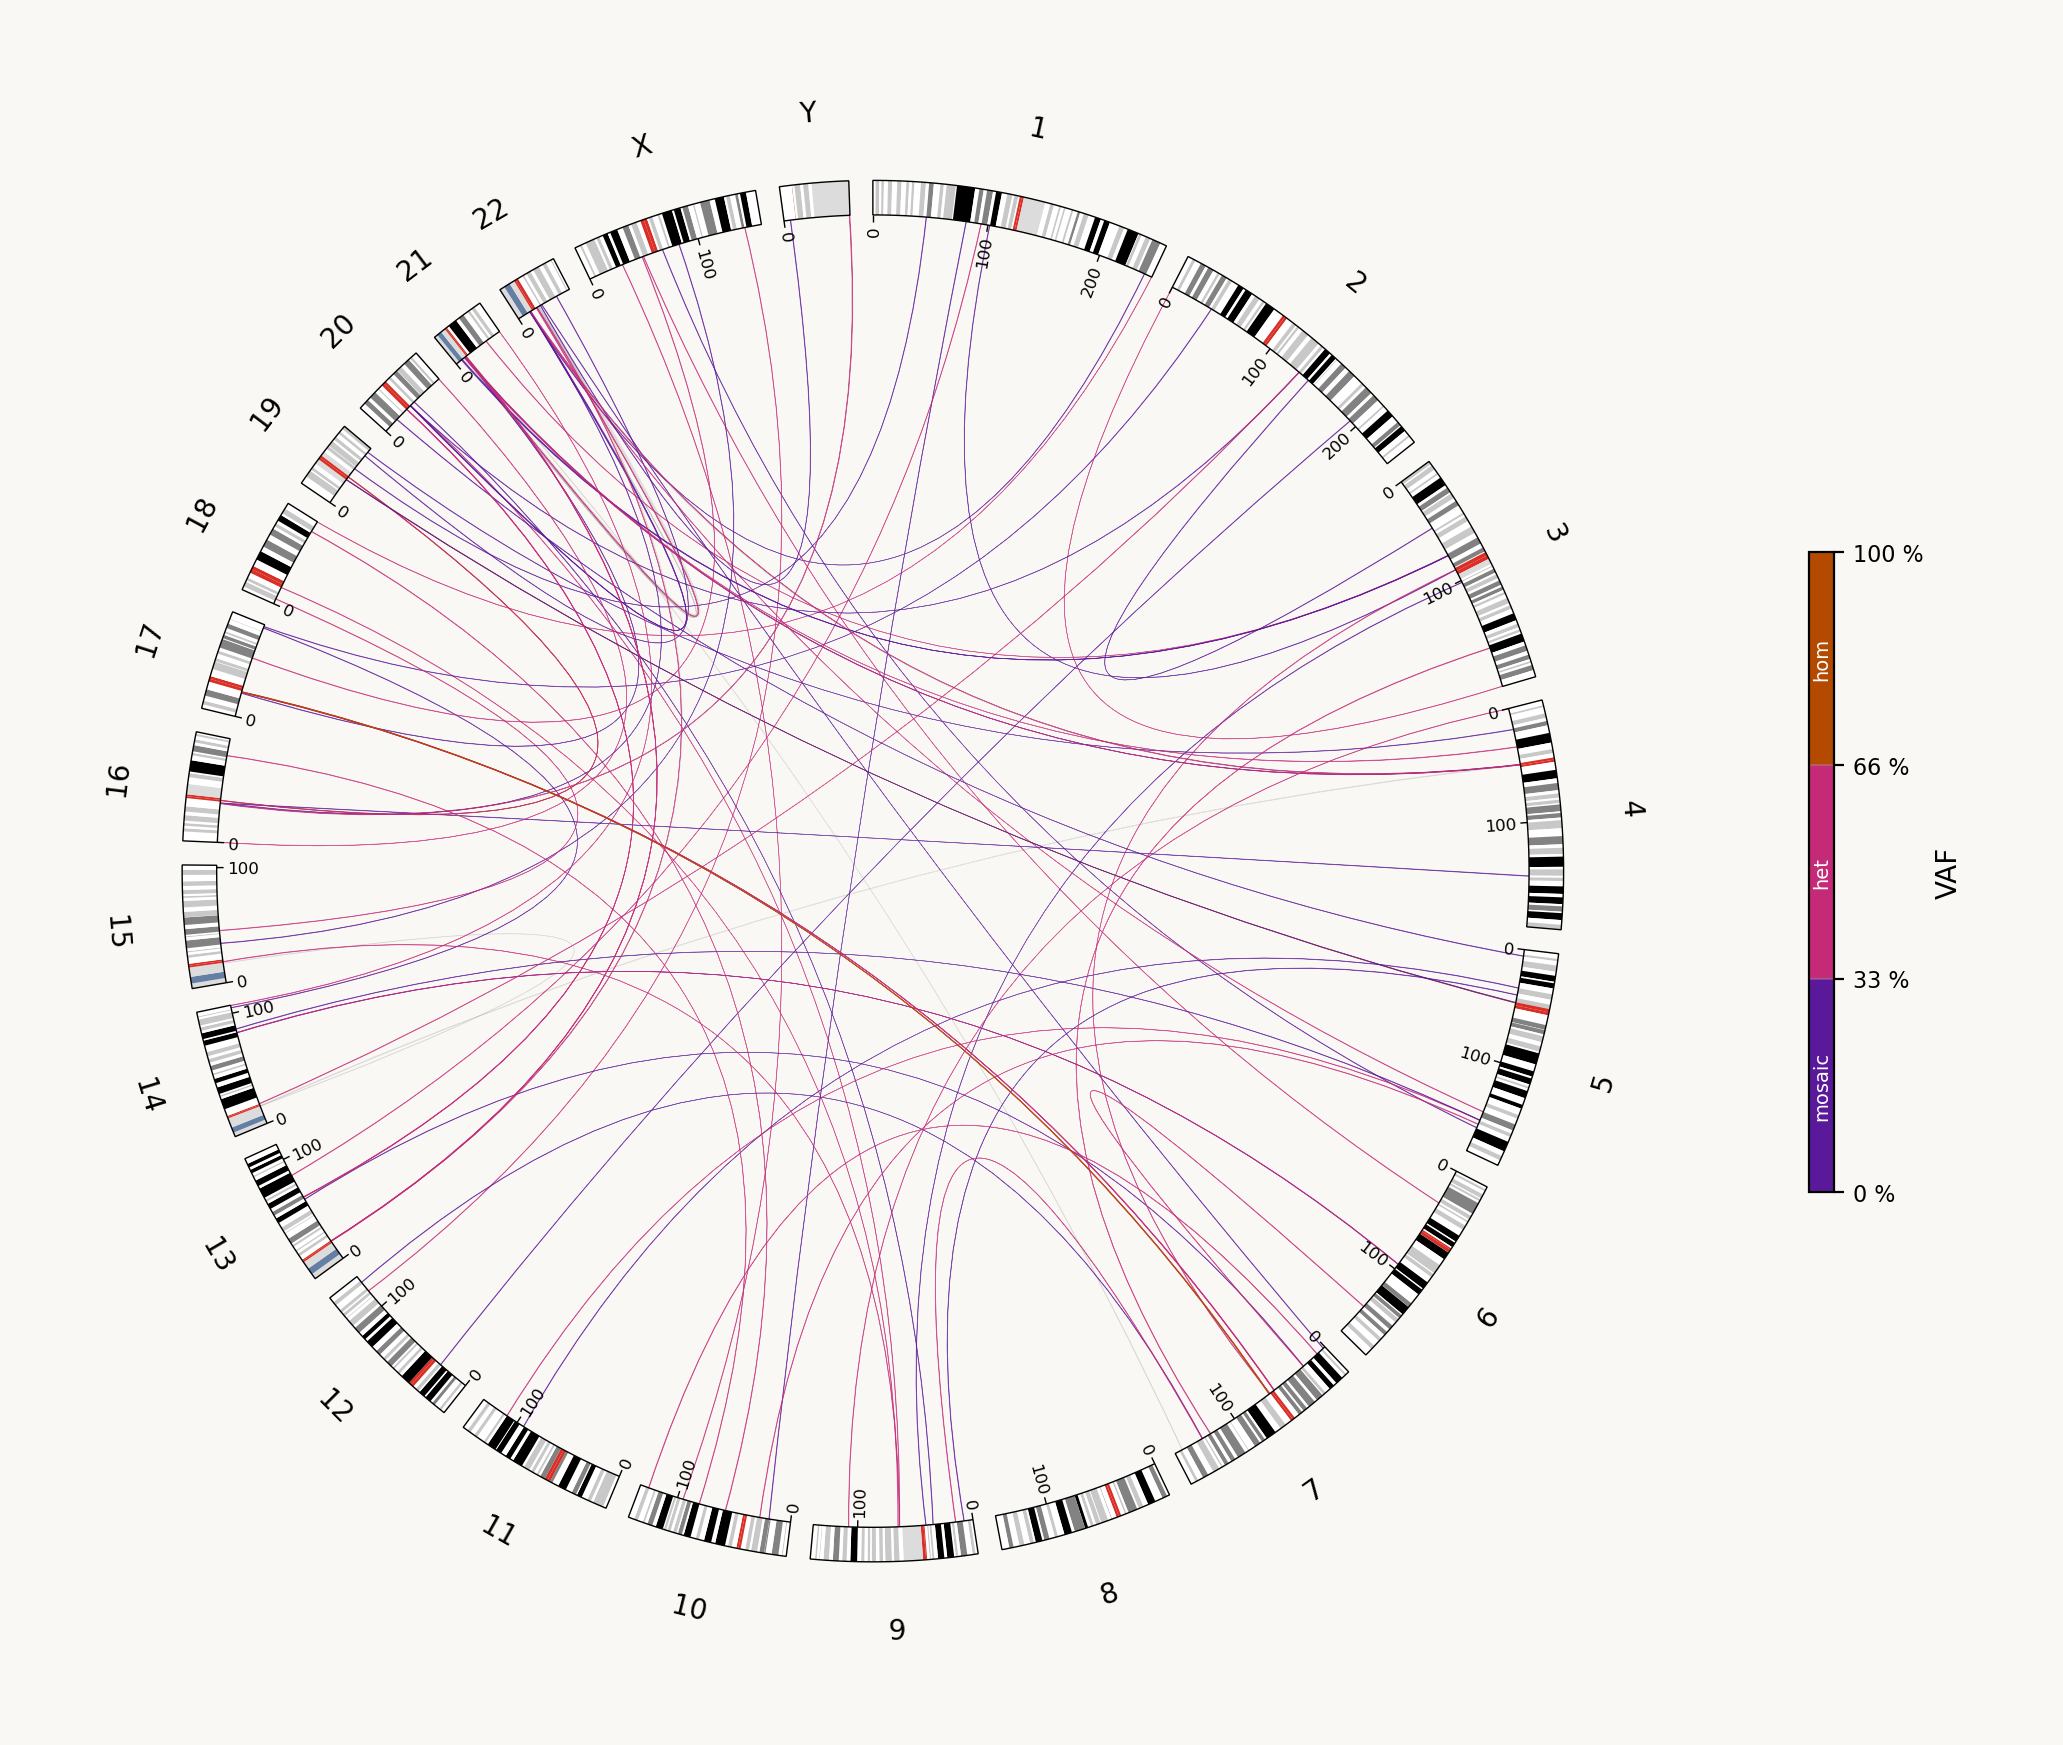
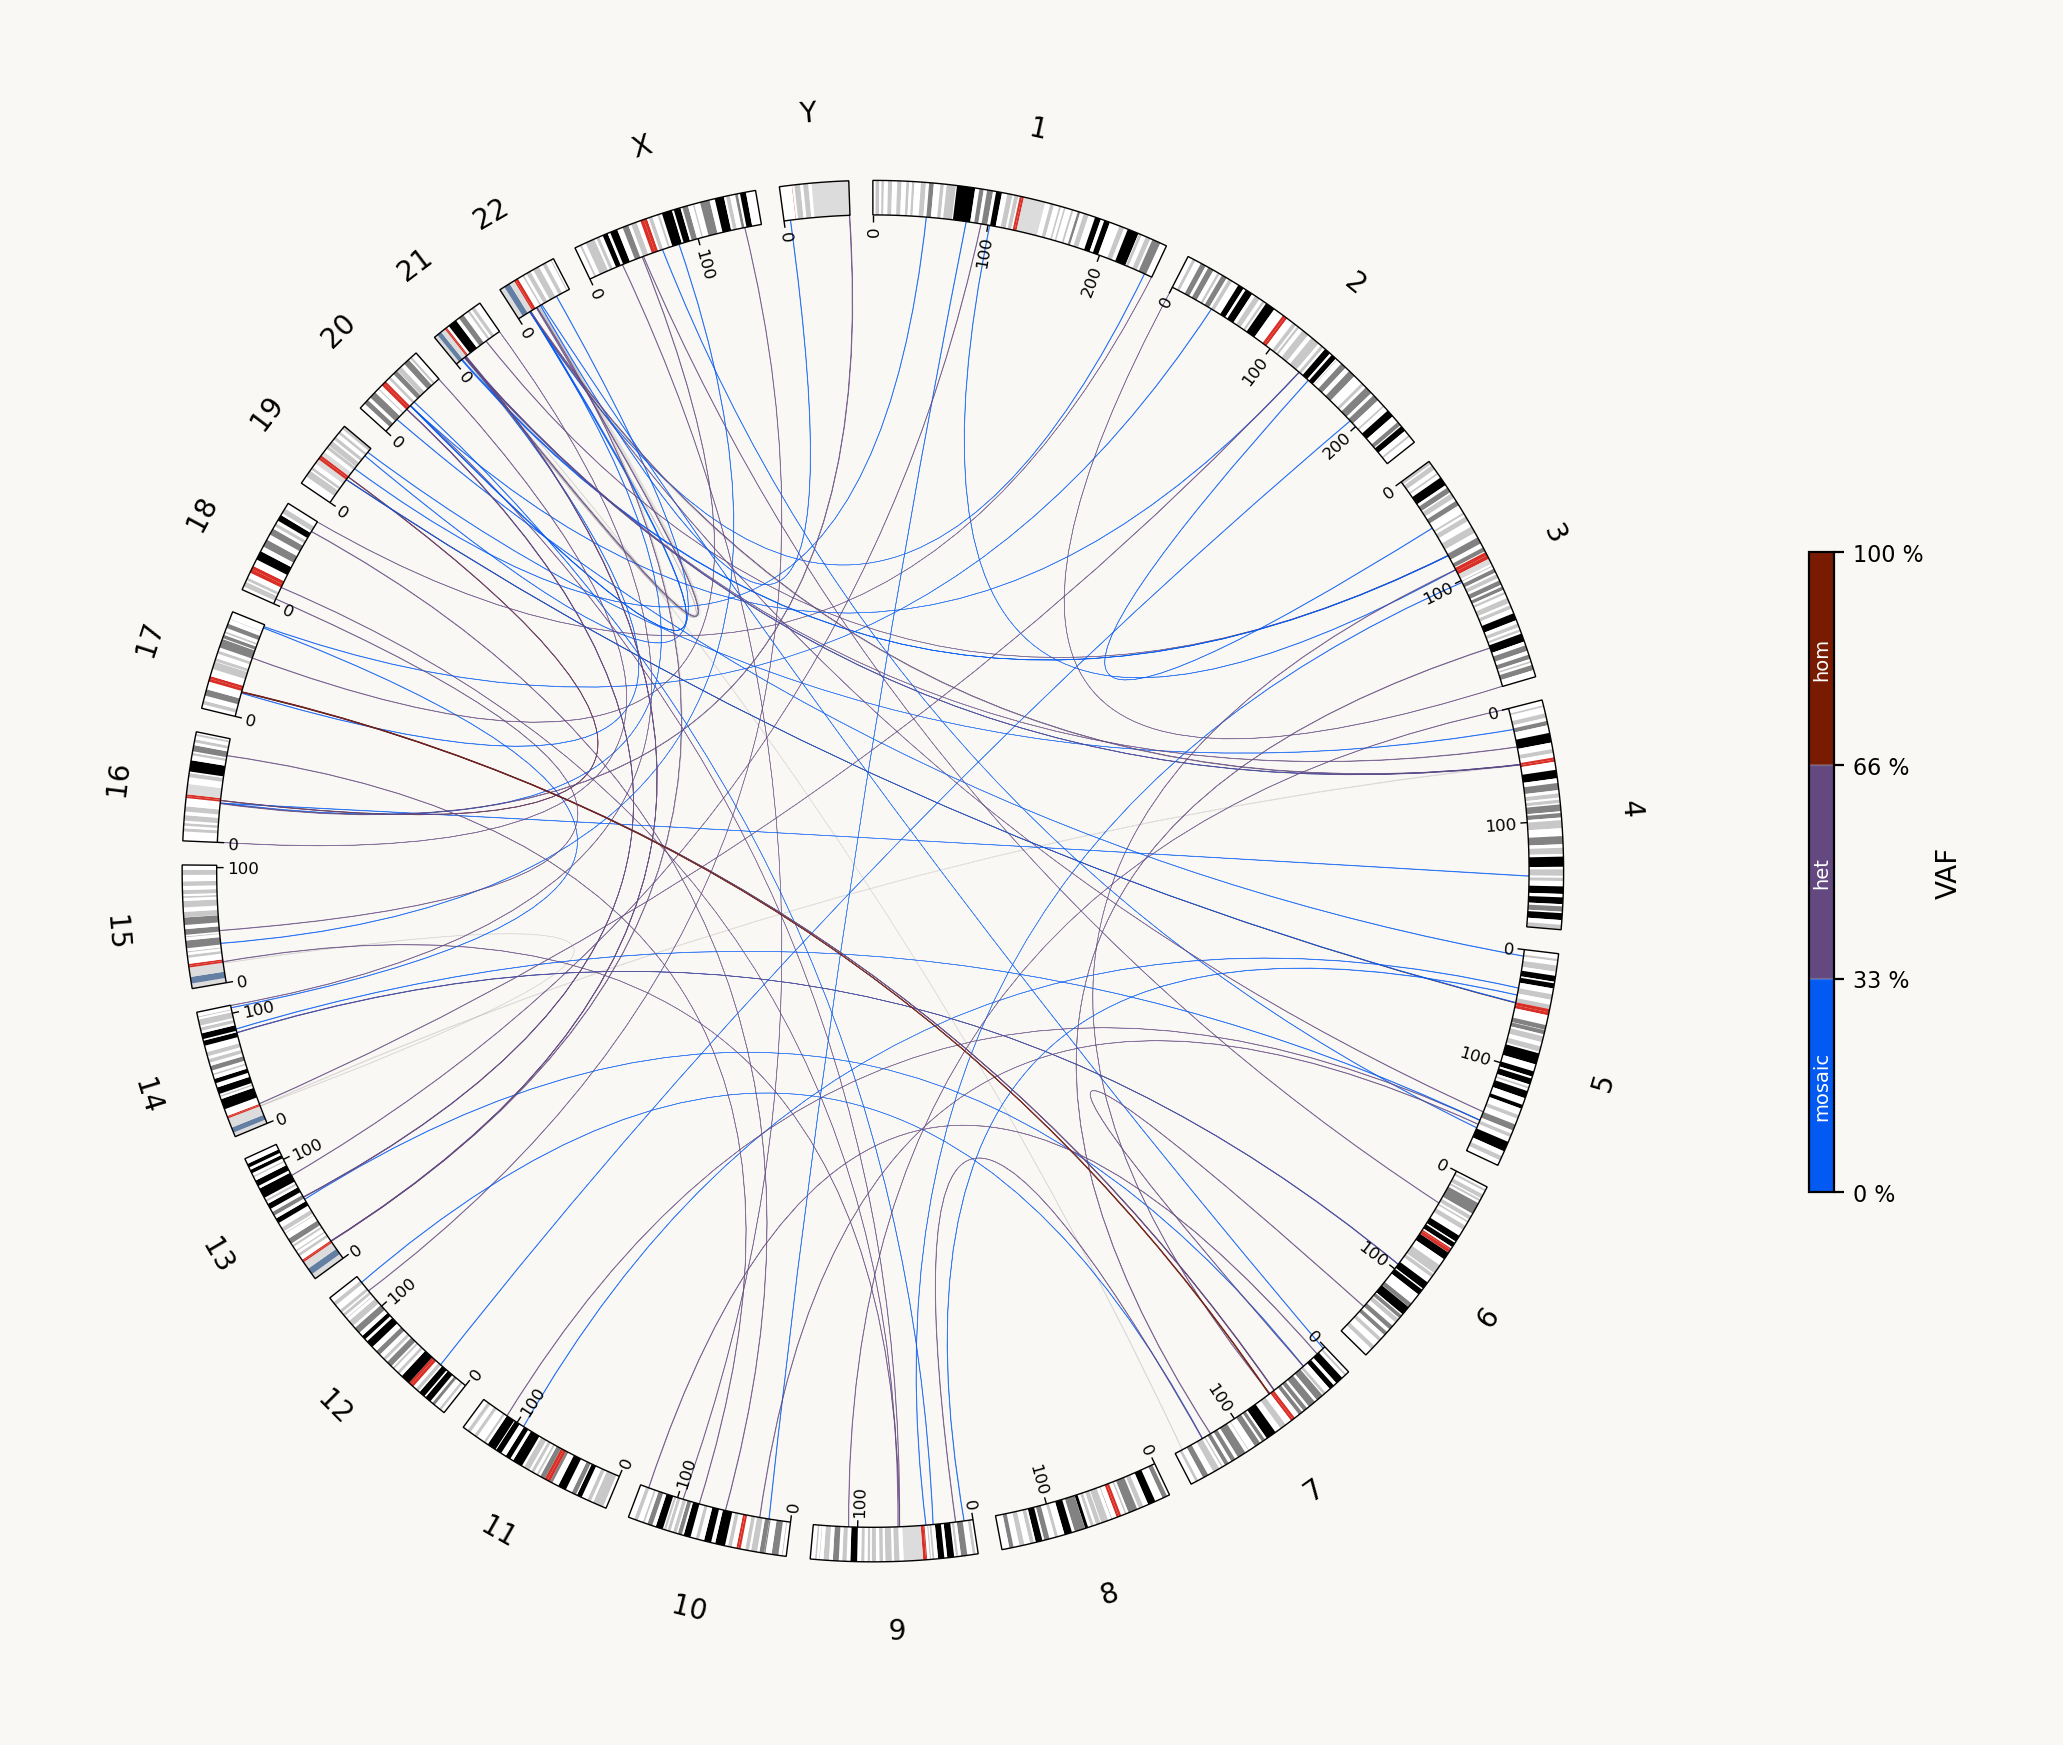
v0.5.1: colour-blind-safe VAF classes
The v0.5.0 palette put het and hom at nearly identical lightness, so they
differed almost only in hue and merged under tritanopia -- dE 11.3 as
drawn, below the level at which two 1 px arcs can be told apart.

VAF_CLASS_COLORS is now #035AF3 mosaic / #634980 het / #781B00 hom,
selected under simulated colour-vision deficiency (Machado et al. 2009)
and evaluated on the colours AS DRAWN. That last part matters: arcs
render at alpha 0.70 over the page, which costs about a third of the
nominal contrast, so a palette judged on raw hex looks fine in a swatch
and washes out on the plot. An earlier candidate scored well raw and
measured 2.5:1 as composited.

Worst case across normal / protan / deutan / tritan vision:

  class-vs-class  dE 11.3 -> 37.2
  vs noise grey   dE 30.1 -> 35.0

Every class still clears 3:1 against the page as composited, and
lightness is now monotone with VAF so the ordering survives even total
loss of hue discrimination.

tests/test_vaf_colors.py pins all four properties and carries the CVD
simulation, so a future recolour cannot silently regress this. The
contrast assertions there now also measure the composited colour rather
than the raw hex.

Example figures in docs/ regenerated from the same MH001 hg38 Sniffles2
run (94 BNDs, unchanged) so the published screenshots match the code.

Tests: 458 passing. ruff clean.

diff --git a/tests/test_vaf_colors.py b/tests/test_vaf_colors.py
@@ -9,6 +9,7 @@ and the colorbar they are read against share one norm.
 
 from __future__ import annotations
 
+import numpy as np
 import pytest
 from matplotlib.colors import to_rgb
 
@@ -198,3 +199,106 @@ def test_overcrowded_labels_are_drawn_and_counted_not_dropped():
 
 def test_no_labels_is_not_an_error():
     assert mm._draw_vaf_labels(_FakeCircos(), [], {"chr1": 1000}) == (0, 0)
+
+
+# --- colour-vision deficiency ---------------------------------------------
+#
+# The VAF classes were picked under simulated CVD, not by eye. Two things
+# had gone wrong with an eye-picked palette and neither was visible to
+# normal vision: `het` and `hom` sat at the same lightness so they merged
+# under tritanopia, and `het` desaturated to near-grey under deuteranopia
+# -- the same grey molamola uses for noise-flagged BNDs, so for ~6 % of
+# men real het breakends read as artefacts. These tests pin both.
+
+# Machado et al. (2009) severity-1.0 matrices, linear sRGB.
+_CVD_MATRICES = {
+    "protan": ((0.152286, 1.052583, -0.204868),
+               (0.114503, 0.786281, 0.099216),
+               (-0.003882, -0.048116, 1.051998)),
+    "deutan": ((0.367322, 0.860646, -0.227968),
+               (0.280085, 0.672501, 0.047413),
+               (-0.011820, 0.042940, 0.968881)),
+    "tritan": ((1.255528, -0.076749, -0.178779),
+               (-0.078411, 0.930809, 0.147602),
+               (0.004733, 0.691367, 0.303900)),
+}
+
+
+def _to_linear(c):
+    return np.where(c <= 0.04045, c / 12.92, ((c + 0.055) / 1.055) ** 2.4)
+
+
+def _simulate(color, kind):
+    """Return `color` as seen with the given dichromacy."""
+    rgb = _to_linear(np.array(to_rgb(color)))
+    if kind != "normal":
+        rgb = np.array(_CVD_MATRICES[kind]) @ rgb
+    return np.clip(rgb, 0.0, 1.0)
+
+
+def _lab(linear_rgb):
+    m = np.array([[0.4124, 0.3576, 0.1805],
+                  [0.2126, 0.7152, 0.0722],
+                  [0.0193, 0.1192, 0.9505]])
+    xyz = m @ linear_rgb
+    wp = np.array([0.95047, 1.0, 1.08883])
+
+    def f(t):
+        return t ** (1 / 3) if t > 0.008856 else 7.787 * t + 16 / 116
+
+    fx, fy, fz = (f(v) for v in xyz / wp)
+    return np.array([116 * fy - 16, 500 * (fx - fy), 200 * (fy - fz)])
+
+
+def _blend(color, alpha):
+    """Colour as actually drawn: alpha-composited over the page.
+
+    Arcs render at alpha 0.70 and noise-flagged arcs at 0.18, which
+    lifts both toward the background. Judging the raw hex values
+    overstates how distinct they are on the plot.
+    """
+    fg, bg = np.array(to_rgb(color)), np.array(to_rgb(mm.PAPER_BG))
+    return tuple(alpha * fg + (1 - alpha) * bg)
+
+
+ARC_ALPHA = 0.70
+NOISE_ALPHA = 0.18
+
+
+def _delta_e(a, b, kind):
+    return float(np.linalg.norm(_lab(_simulate(a, kind)) - _lab(_simulate(b, kind))))
+
+
+CVD_KINDS = ["normal", "protan", "deutan", "tritan"]
+
+
+@pytest.mark.parametrize("kind", CVD_KINDS)
+def test_classes_stay_distinct_under_colour_blindness(kind):
+    drawn = [_blend(c, ARC_ALPHA) for c in mm.VAF_CLASS_COLORS]
+    worst = min(_delta_e(drawn[i], drawn[j], kind)
+                for i in range(len(drawn)) for j in range(i + 1, len(drawn)))
+    assert worst >= 30, f"{kind}: closest VAF classes are only dE {worst:.1f} apart"
+
+
+@pytest.mark.parametrize("kind", CVD_KINDS)
+def test_no_class_looks_like_a_noise_flagged_bnd(kind):
+    """A VAF class that lands on the noise grey makes real events read as
+    artefacts -- worse than merely being hard to tell apart."""
+    noise = _blend(mm.NOISE_COLOR, NOISE_ALPHA)
+    worst = min(_delta_e(_blend(c, ARC_ALPHA), noise, kind)
+                for c in mm.VAF_CLASS_COLORS)
+    assert worst >= 25, f"{kind}: a VAF class is only dE {worst:.1f} from noise"
+
+
+def test_every_class_is_legible_as_drawn():
+    """The 3:1 floor has to hold on the composited colour, not the raw
+    hex -- alpha 0.70 costs about a third of the nominal contrast."""
+    for color in mm.VAF_CLASS_COLORS:
+        assert _contrast_on_paper(_blend(color, ARC_ALPHA)) >= 3.0, color
+
+
+def test_lightness_is_monotonic_with_vaf():
+    """Ordering must survive even total loss of hue discrimination, so
+    lightness carries it as well as hue."""
+    lightness = [_lab(_simulate(c, "normal"))[0] for c in mm.VAF_CLASS_COLORS]
+    assert lightness == sorted(lightness, reverse=True), lightness

diff --git a/molamola/__init__.py b/molamola/__init__.py
@@ -33,7 +33,7 @@ rather than silently producing a default plot.
 
 from __future__ import annotations
 
-__version__ = "0.5.0"
+__version__ = "0.5.1"
 
 import argparse
 import base64
@@ -126,14 +126,29 @@ SV_COV_FILTER_TYPES: tuple[str, ...] = ("DEL", "DUP")
 #: homozygous.
 VAF_CLASS_EDGES: tuple[float, ...] = (0.0, 0.33, 0.66, 1.0)
 
-#: One colour per class, low to high. Every entry clears 3:1 contrast
-#: against the white plot background; plasma's yellow end managed only
-#: 1.6-2.0:1, which is what made the highest-VAF arcs - the rarest and
-#: most interesting ones - the hardest to see.
+#: One colour per class, low to high. Chosen under simulated
+#: colour-vision deficiency (Machado et al. 2009) rather than by eye,
+#: and evaluated on the colours **as drawn** -- arcs render at alpha
+#: 0.70 over :data:`PAPER_BG`, which lifts every colour toward the page
+#: and costs roughly a third of the nominal contrast. Judging the raw
+#: hex values instead is how a palette ends up looking fine in a swatch
+#: and washed out on the plot.
+#:
+#: Constraints, all binding on the blended colour:
+#:
+#: 1. every class clears 3:1 contrast against the page;
+#: 2. classes stay apart under normal, protan, deutan and tritan vision
+#:    (worst case dE 37.2, up from 11.3). The previous palette put het
+#:    and hom at nearly the same lightness, so they differed almost only
+#:    in hue and merged under tritanopia;
+#: 3. no class lands on :data:`NOISE_COLOR` (worst case dE 35.0).
+#:
+#: Lightness also decreases monotonically with VAF, so the ordering
+#: survives even a total loss of hue discrimination.
 VAF_CLASS_COLORS: tuple[str, ...] = (
-    "#5A189A",  # 0 - 33 %    mosaic / subclonal
-    "#C42A78",  # 33 - 66 %   het
-    "#B34A00",  # 66 - 100 %  hom
+    "#035AF3",  # 0 - 33 %    mosaic / subclonal
+    "#634980",  # 33 - 66 %   het
+    "#781B00",  # 66 - 100 %  hom
 )
 
 #: Class names, in the same order as :data:`VAF_CLASS_COLORS`. Used to

diff --git a/CHANGELOG.md b/CHANGELOG.md
@@ -3,6 +3,12 @@
 All notable changes to molamola are documented here.
 The format follows [Keep a Changelog](https://keepachangelog.com/en/1.1.0/) and the project follows [Semantic Versioning](https://semver.org/).
 
+## [0.5.1] — 2026-08-29
+
+### Changed
+
+- **VAF class colours recoloured for colour-vision deficiency.** `mosaic` / `het` / `hom` are now `#035AF3` / `#634980` / `#781B00`. The previous palette put `het` and `hom` at nearly the same lightness, so they differed almost only in hue and merged under tritanopia (ΔE 11.3 as drawn — below the level at which two thin arcs can be told apart). Colours are now selected under simulated CVD (Machado et al. 2009) and, importantly, evaluated on the colours **as drawn**: arcs render at alpha 0.70 over the page, which costs about a third of the nominal contrast, so judging raw hex values overstates how distinct they actually are. Worst-case class separation across normal, protan, deutan and tritan vision is now ΔE 37.2, every class still clears 3:1 against the page as composited, no class lands within ΔE 25 of the noise grey, and lightness is monotone with VAF so the ordering survives even total loss of hue discrimination. `tests/test_vaf_colors.py` pins all four of these.
+
 ## [0.5.0] — 2026-08-21
 
 ### Added

diff --git a/docs/OUTPUTS.md b/docs/OUTPUTS.md
@@ -22,7 +22,7 @@ molamola is bundled-only by design — no auto-download, no online lookups. The 
 
 ## Circos plot (SV mode)
 
-Outer ring: cytoband ideogram (default pyCirclize colours). Inner ribbons: each PASS BND, line-thickness scaled by `SUPPORT`, colour by VAF class (three discrete bands: mosaic 0-33 %, het 33-66 %, hom 66-100 %). Noise-flagged BNDs render grey/dashed at low alpha so the eye goes to the candidate signal. With `--plotvaf`, each drawn arc also carries its VAF as a percentage on the rim.
+Outer ring: cytoband ideogram (default pyCirclize colours). Inner ribbons: each PASS BND, line-thickness scaled by `SUPPORT`, colour by VAF class (three discrete bands: mosaic 0-33 %, het 33-66 %, hom 66-100 %; the class colours are chosen under simulated colour-vision deficiency and stay distinct under protanopia, deuteranopia and tritanopia, with lightness increasing across the classes so the ordering survives even total loss of hue discrimination). Noise-flagged BNDs render grey/dashed at low alpha so the eye goes to the candidate signal. With `--plotvaf`, each drawn arc also carries its VAF as a percentage on the rim.
 
 ## Genome SV map (SV mode)
 
